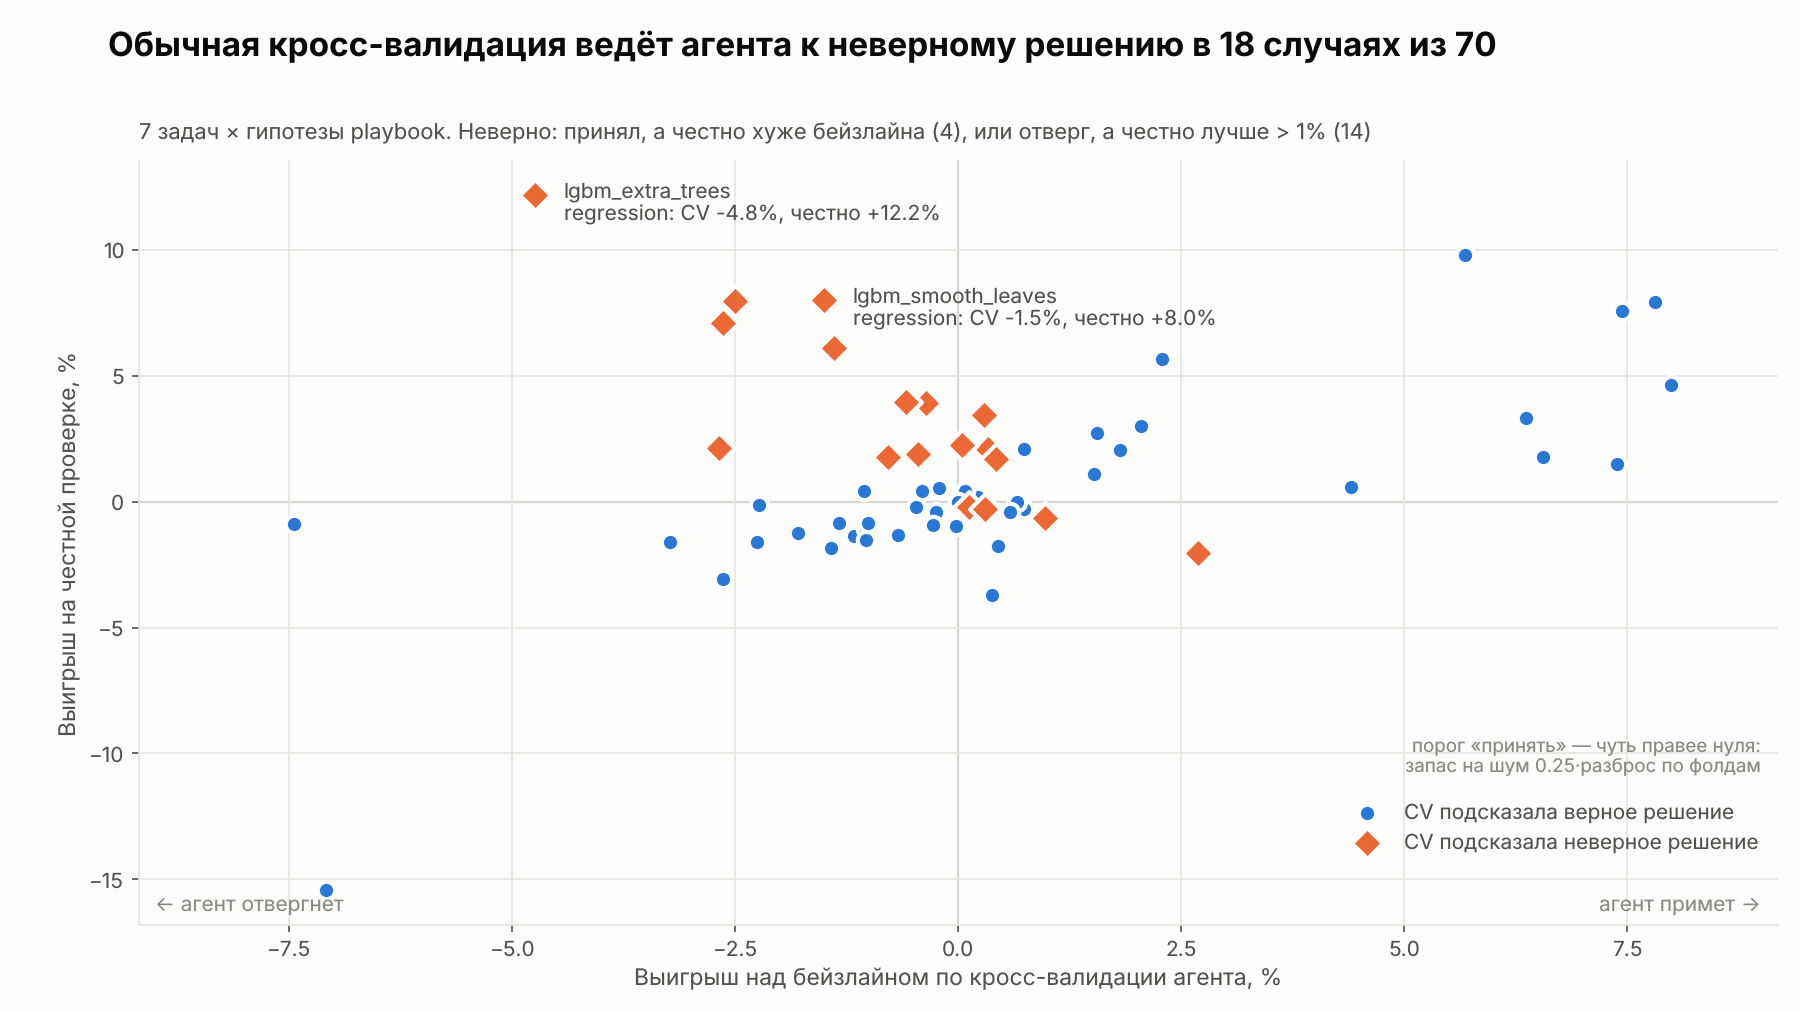
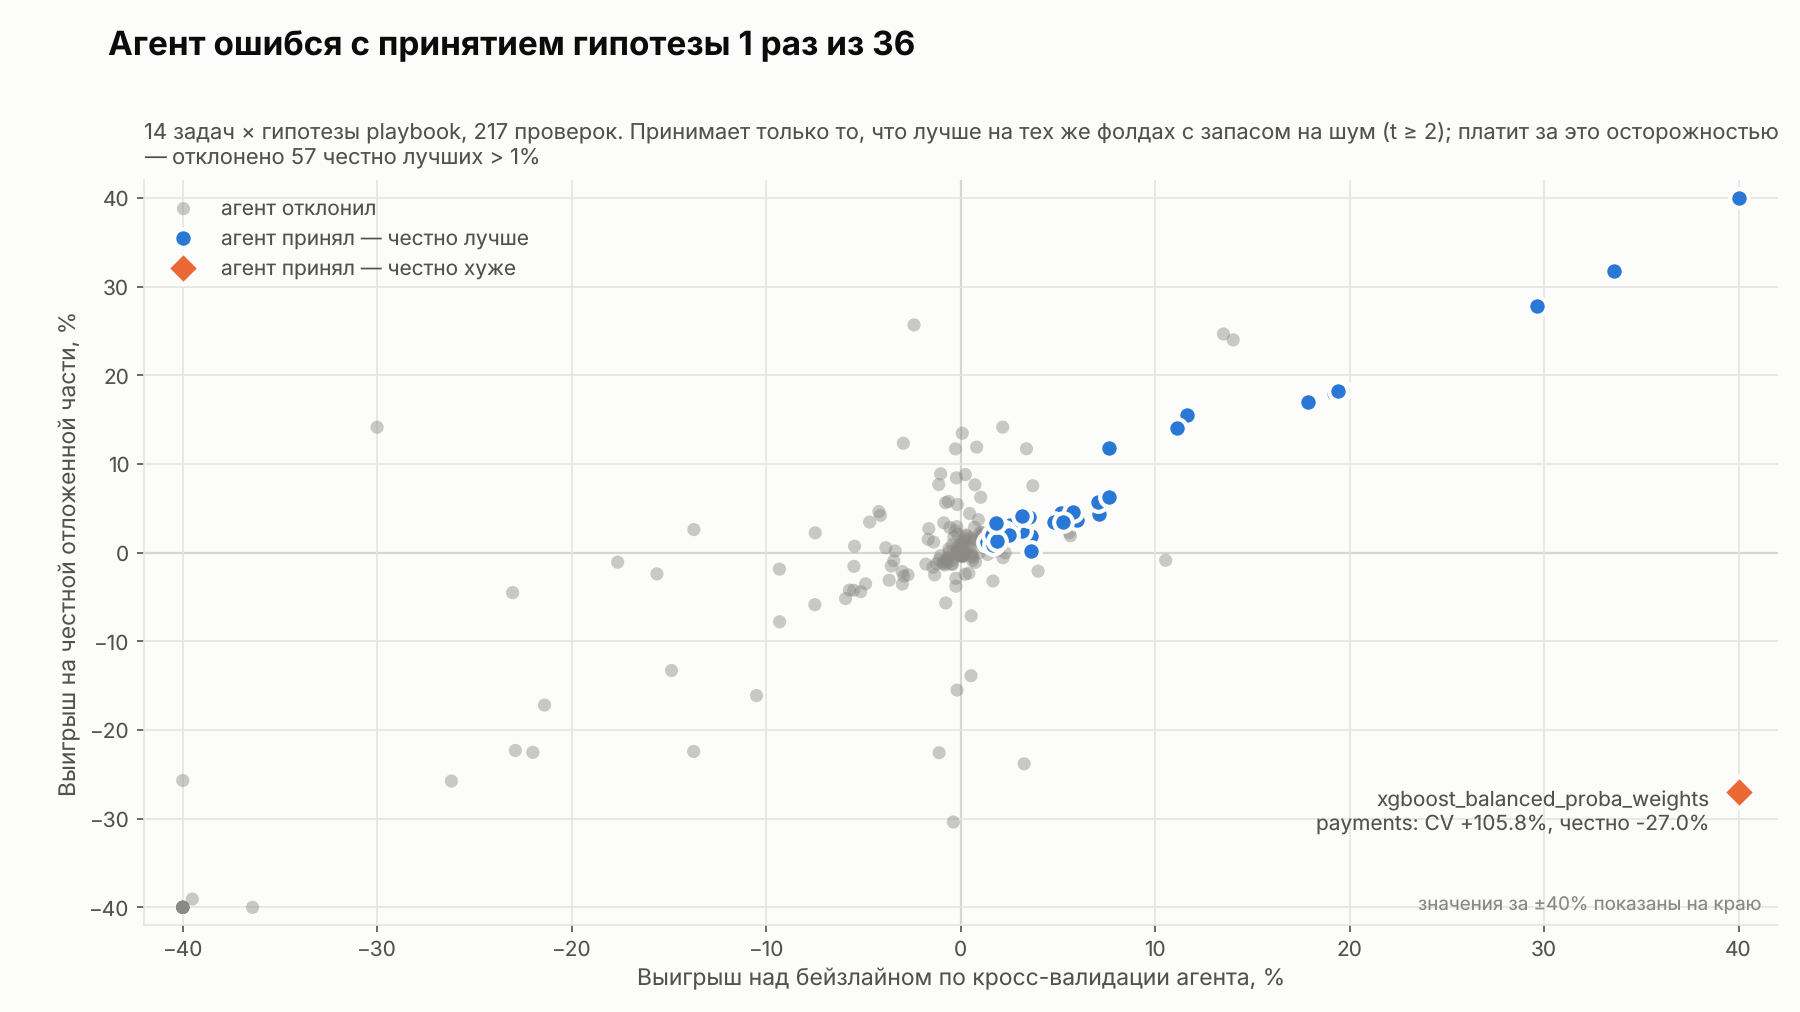
docs(pitch): график 1 по стенду v2 и #237 — решения агента, 1 ложное принятие из 36
Цвет — решение агента по его правилу (accept), а не знак CV; оси ±40% (выбросы целей
«не под метрику» прижаты к краю). Слайд 5 и README питча — новая цифра.

Claude-Session: https://claude.ai/code/session_011jYtunmRer72CcRhepjMi7

diff --git a/research/pitch_charts.py b/research/pitch_charts.py
@@ -3,8 +3,8 @@
     uv run python research/pitch_charts.py      # → docs/pitch/img/*.png
 
 График 1 «CV против честной проверки»: каждая точка — гипотеза на задаче. По X — выигрыш над бейзлайном
-по CV агента, по Y — на честной отложенной части. Оранжевым — случаи, где решение агента по CV неверное:
-принял, а честно хуже бейзлайна, или отверг, а честно лучше больше чем на 1%.
+по CV агента (в его схеме валидации), по Y — на честной отложенной части. Цвет — решение агента по его правилу
+(agent.acceptance.accept): принял и честно лучше, принял и честно хуже, отклонил. Данные — стенд v2 и #237.
 """
 
 from __future__ import annotations
@@ -23,19 +23,23 @@ PITCH = ROOT / "docs" / "pitch"
 # Палитра — категориальные слоты 1–2 (проверены на дальтонизм, all-pairs), текст — нейтральные чернила
 SURFACE, INK, INK_2, INK_MUTED, GRID = "#fcfcfb", "#0b0b0b", "#52514e", "#8a8984", "#e6e5e1"
 OK_COLOR, WRONG_COLOR = "#2a78d6", "#eb6834"
-MISSED_GAIN_PCT = 1.0  # «отверг, а честно лучше» считаем ошибкой, только если выигрыш заметный
+MISSED_GAIN_PCT = 1.0  # «отверг, а честно лучше» считаем упущенным, только если выигрыш заметный
+LIM = 40.0  # оси, %: дальше — выбросы целей «не под метрику» (−10⁶ %)
 
 
 def cv_vs_honest(data: Path, out: Path) -> dict:
     d = pd.read_csv(data)
-    wrong = (d.agent_accepts & (d.honest_gain_pct < 0)) | (~d.agent_accepts & (d.honest_gain_pct > MISSED_GAIN_PCT))
+    acc = d.agent_accepts.astype(bool)
+    acc_ok, acc_bad = acc & (d.honest_gain_pct >= 0), acc & (d.honest_gain_pct < 0)
     stats = {
         "pairs": len(d),
-        "wrong": int(wrong.sum()),
-        "accepted_worse": int((d.agent_accepts & (d.honest_gain_pct < 0)).sum()),
-        "rejected_better": int((~d.agent_accepts & (d.honest_gain_pct > MISSED_GAIN_PCT)).sum()),
+        "accepted": int(acc.sum()),
+        "accepted_worse": int(acc_bad.sum()),
+        "rejected_better": int((~acc & (d.honest_gain_pct > MISSED_GAIN_PCT)).sum()),
         "tasks": d.task.nunique(),
     }
+    # Цели «не под метрику» дают −10⁶ %: прижимаем к краю, иначе остальные точки сливаются в одну
+    x, y = d.cv_gain_pct.clip(-LIM, LIM), d.honest_gain_pct.clip(-LIM, LIM)
 
     fig, ax = plt.subplots(figsize=(12, 6.75), dpi=150, facecolor=SURFACE)
     ax.set_facecolor(SURFACE)
@@ -49,50 +53,57 @@ def cv_vs_honest(data: Path, out: Path) -> dict:
 
     # Форма — второе кодирование: цвет никогда не единственный носитель смысла
     ax.scatter(
-        d.cv_gain_pct[~wrong],
-        d.honest_gain_pct[~wrong],
-        s=70,
+        x[~acc],
+        y[~acc],
+        s=40,
+        marker="o",
+        color=INK_MUTED,
+        alpha=0.45,
+        edgecolor="none",
+        zorder=2,
+        label="агент отклонил",
+    )
+    ax.scatter(
+        x[acc_ok],
+        y[acc_ok],
+        s=80,
         marker="o",
         color=OK_COLOR,
         edgecolor=SURFACE,
         linewidth=2,
         zorder=3,
-        label="CV подсказала верное решение",
+        label="агент принял — честно лучше",
     )
     ax.scatter(
-        d.cv_gain_pct[wrong],
-        d.honest_gain_pct[wrong],
-        s=110,
+        x[acc_bad],
+        y[acc_bad],
+        s=120,
         marker="D",
         color=WRONG_COLOR,
         edgecolor=SURFACE,
         linewidth=2,
         zorder=4,
-        label="CV подсказала неверное решение",
+        label="агент принял — честно хуже",
     )
 
-    # Подписи — только у самых показательных точек
-    top = d[wrong].reindex(d[wrong].honest_gain_pct.abs().sort_values(ascending=False).index).head(2)
-    for _, r in top.iterrows():
+    for _, r in d[acc_bad].iterrows():
         ax.annotate(
             f"{r.hypothesis}\n{r.task}: CV {r.cv_gain_pct:+.1f}%, честно {r.honest_gain_pct:+.1f}%",
-            (r.cv_gain_pct, r.honest_gain_pct),
-            xytext=(14, -4),
+            (min(max(r.cv_gain_pct, -LIM), LIM), min(max(r.honest_gain_pct, -LIM), LIM)),
+            xytext=(-14, -18),
             textcoords="offset points",
             fontsize=10,
             color=INK_2,
-            va="center",
+            ha="right",
         )
 
-    lim_x = max(abs(d.cv_gain_pct).max(), 1) * 1.15
-    ax.set_xlim(-lim_x, lim_x)
-    ax.text(0.99, 0.02, "агент примет →", transform=ax.transAxes, ha="right", fontsize=10, color=INK_MUTED)
-    ax.text(0.01, 0.02, "← агент отвергнет", transform=ax.transAxes, ha="left", fontsize=10, color=INK_MUTED)
+    ax.set_xlim(-LIM * 1.05, LIM * 1.05)
+    ax.set_ylim(-LIM * 1.05, LIM * 1.05)
     ax.set_xlabel("Выигрыш над бейзлайном по кросс-валидации агента, %", color=INK_2, fontsize=11)
-    ax.set_ylabel("Выигрыш на честной проверке, %", color=INK_2, fontsize=11)
+    ax.set_ylabel("Выигрыш на честной отложенной части, %", color=INK_2, fontsize=11)
     ax.tick_params(colors=INK_2, labelsize=10)
     fig.suptitle(
-        f"Обычная кросс-валидация ведёт агента к неверному решению в {stats['wrong']} случаях из " f"{stats['pairs']}",
+        f"Агент ошибся с принятием гипотезы {stats['accepted_worse']} раз из {stats['accepted']}",
         x=0.06,
         y=0.97,
         ha="left",
@@ -101,19 +112,20 @@ def cv_vs_honest(data: Path, out: Path) -> dict:
         weight="bold",
     )
     ax.set_title(
-        f"{stats['tasks']} задач × гипотезы playbook. Неверно: принял, а честно хуже бейзлайна "
-        f"({stats['accepted_worse']}), или отверг, а честно лучше > {MISSED_GAIN_PCT:.0f}% "
-        f"({stats['rejected_better']})",
+        f"{stats['tasks']} задач × гипотезы playbook, {stats['pairs']} проверок. Принимает только то, что лучше "
+        f"на тех же фолдах с запасом на шум (t ≥ 2); платит за это осторожностью — отклонено {stats['rejected_better']} "
+        f"честно лучших > {MISSED_GAIN_PCT:.0f}%",
         loc="left",
         fontsize=10.5,
         color=INK_2,
         pad=10,
+        wrap=True,
     )
-    ax.legend(loc="lower right", bbox_to_anchor=(1, 0.07), frameon=False, fontsize=10, labelcolor=INK_2)
+    ax.legend(loc="upper left", frameon=False, fontsize=10, labelcolor=INK_2)
     ax.text(
         0.99,
-        0.2,
-        "порог «принять» — чуть правее нуля:\nзапас на шум 0.25·разброс по фолдам",
+        0.02,
+        f"значения за ±{LIM:.0f}% показаны на краю",
         transform=ax.transAxes,
         ha="right",
         fontsize=9,

diff --git a/docs/pitch/README.md b/docs/pitch/README.md
@@ -74,7 +74,7 @@
 | Схема валидации в агенте: регрессия честно 51.25 → 49.37; ~207 деревьев честно лучше ~813 | ADR 0013, ревью #150, #176 | ml, research | ✅ |
 | Находки ловушек: бейзлайн упал → 0 (#171), XGBoost 129 → 46 (#160), порог F1 0.09 ↔ 0.34 (#191), QWK 0.745 → 0.760 (#192) | issue и ревью | research | ✅ |
 | Живые решения Qwen для слайда 4 | лог прогона с LLM | agent | ⏳ |
-| **График 1:** CV-выигрыш vs честный выигрыш по гипотезам | `docs/pitch/data/cv_vs_honest.csv` → `uv run python research/pitch_charts.py` | research | ✅ 21.10 (7 задач; перерисовать на финальной версии) |
+| **График 1:** CV-выигрыш vs честный выигрыш по гипотезам | `docs/pitch/data/cv_vs_honest.csv` → `uv run python research/pitch_charts.py` | research | ✅ 23.10: стенд v2 + #237 — 14 задач, 217 проверок, 1 ложное принятие из 36 |
 | **График 2:** public score по сабмитам + локальный балл харнесса | `docs/submissions.md`, харнесс | дежурные, qa | ⏳ нужны сабмиты |
 | **Таблица 3:** балл харнесса на всех задачах, финальная версия | `evaluation/harness.py --all` | qa | ⏳ 26.10 |
 | Время и ₽ на один 3-часовой прогон | лог агента, `LLMClient.rub_spent` | agent, captain | ⏳ ⚠ цены токенов не известны (в `.env` нули) |
